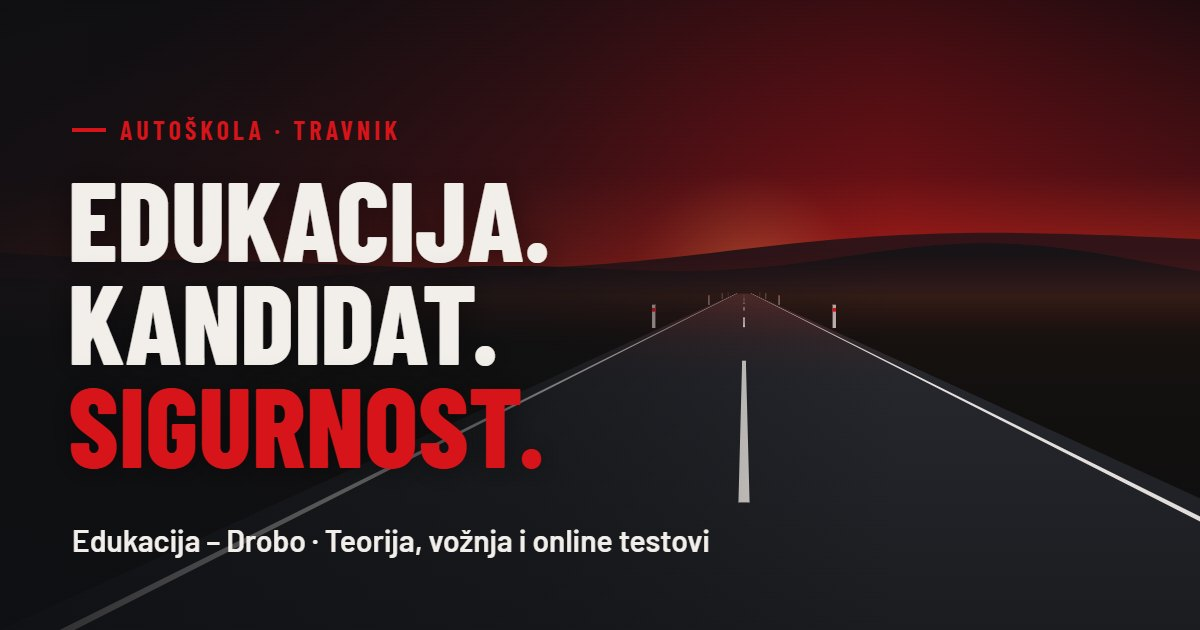
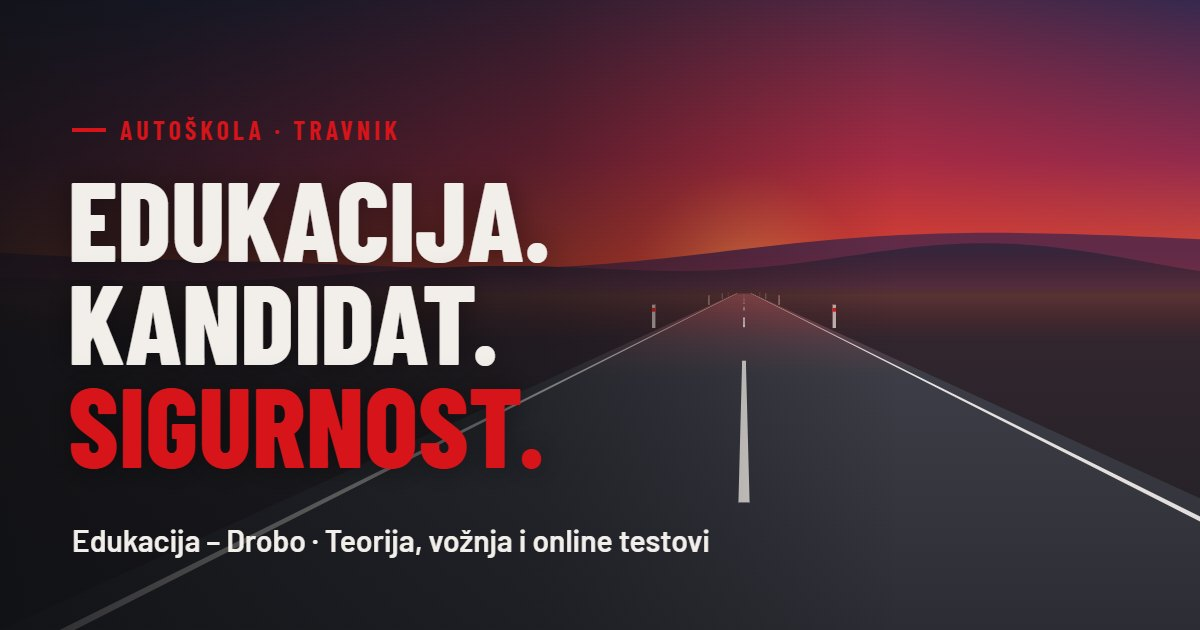
Hero svjetlije boje, mobilni hero pri vrhu, koraci upisa i dno podnožja
- animacija ceste: svjetlije, zasićene boje (plavo-ljubičasto nebo,
  crveno-narandžasti horizont, svjetliji asfalt); nove statične slike
- telefon: hero tekst pri vrhu preko neba, niži horizont na uspravnom
  ekranu da je cesta vidljiva ispod teksta
- koraci upisa poravnati lijevo (uklonjeno zadano uvlačenje liste)
- dno podnožja: uspravna crta prije "Sva prava zadržana.",
  "Stranicu izradio A&V Web Studio" s manjim logom; centrirano na telefonu

diff --git a/src/lib/hero.js b/src/lib/hero.js
@@ -149,30 +149,32 @@ export function createRoad(canvas) {
     ctx.setTransform(dpr, 0, 0, dpr, 0, 0);
     const wide = W > 900;
     const vpx = W * (wide ? 0.62 : 0.5);
-    const horizon = H * (wide ? 0.46 : 0.42);
+    // Uspravan ekran telefona: niži horizont, da tekst pri vrhu stoji preko neba, a cesta ostane ispod njega
+    const portrait = !wide && H > W * 1.3;
+    const horizon = H * (wide ? 0.46 : portrait ? 0.56 : 0.42);
     const dawn = smooth(clamp(p * 1.15));
 
-    // Nebo: od noći prema crvenom svitanju
+    // Nebo: tamnoplavi sumrak prema jarkom crveno-narandžastom svitanju
     const sky = ctx.createLinearGradient(0, 0, 0, horizon);
-    sky.addColorStop(0, `rgb(${lerp(10, 26, dawn)}, ${lerp(11, 12, dawn)}, ${lerp(14, 16, dawn)})`);
-    sky.addColorStop(0.6, `rgb(${lerp(24, 92, dawn)}, ${lerp(12, 16, dawn)}, ${lerp(16, 20, dawn)})`);
-    sky.addColorStop(1, `rgb(${lerp(110, 228, dawn)}, ${lerp(14, 70, dawn)}, ${lerp(20, 36, dawn)})`);
+    sky.addColorStop(0, `rgb(${lerp(34, 44, dawn)}, ${lerp(40, 46, dawn)}, ${lerp(78, 88, dawn)})`);
+    sky.addColorStop(0.55, `rgb(${lerp(108, 170, dawn)}, ${lerp(40, 52, dawn)}, ${lerp(84, 84, dawn)})`);
+    sky.addColorStop(1, `rgb(${lerp(218, 250, dawn)}, ${lerp(66, 120, dawn)}, ${lerp(48, 60, dawn)})`);
     ctx.fillStyle = sky;
     ctx.fillRect(0, 0, W, horizon + 1);
 
     // Sunce koje izlazi u tački nestajanja
     const sunY = horizon + lerp(H * 0.05, -H * 0.06, dawn);
     const glow = ctx.createRadialGradient(vpx, sunY, 0, vpx, sunY, Math.max(W, H) * 0.55);
-    glow.addColorStop(0, `rgba(255, ${lerp(90, 170, dawn)}, ${lerp(60, 90, dawn)}, ${lerp(0.35, 0.9, dawn)})`);
-    glow.addColorStop(0.18, `rgba(215, 20, 26, ${lerp(0.25, 0.45, dawn)})`);
+    glow.addColorStop(0, `rgba(255, ${lerp(130, 186, dawn)}, ${lerp(70, 96, dawn)}, ${lerp(0.55, 0.95, dawn)})`);
+    glow.addColorStop(0.18, `rgba(225, 40, 36, ${lerp(0.32, 0.48, dawn)})`);
     glow.addColorStop(1, 'rgba(215, 20, 26, 0)');
     ctx.fillStyle = glow;
     ctx.fillRect(0, 0, W, horizon + 1);
 
     // Planine (dva sloja)
     const layers = [
-      { pts: ridges[0], base: horizon, height: H * 0.11, color: `rgb(${lerp(34, 70, dawn)}, ${lerp(18, 22, dawn)}, ${lerp(22, 26, dawn)})`, shift: p * 0.02 },
-      { pts: ridges[1], base: horizon + 2, height: H * 0.07, color: `rgb(${lerp(18, 30, dawn)}, ${lerp(18, 20, dawn)}, ${lerp(21, 24, dawn)})`, shift: p * 0.05 },
+      { pts: ridges[0], base: horizon, height: H * 0.11, color: `rgb(${lerp(80, 118, dawn)}, ${lerp(40, 46, dawn)}, ${lerp(74, 70, dawn)})`, shift: p * 0.02 },
+      { pts: ridges[1], base: horizon + 2, height: H * 0.07, color: `rgb(${lerp(50, 62, dawn)}, ${lerp(36, 38, dawn)}, ${lerp(60, 58, dawn)})`, shift: p * 0.05 },
     ];
     layers.forEach((L) => {
       ctx.beginPath();
@@ -189,8 +191,8 @@ export function createRoad(canvas) {
 
     // Tlo
     const ground = ctx.createLinearGradient(0, horizon, 0, H);
-    ground.addColorStop(0, '#16120f');
-    ground.addColorStop(1, '#0c0d0f');
+    ground.addColorStop(0, '#35272f');
+    ground.addColorStop(1, '#1e1f25');
     ctx.fillStyle = ground;
     ctx.fillRect(0, horizon, W, H - horizon);
 
@@ -203,9 +205,9 @@ export function createRoad(canvas) {
 
     // Asfalt
     const asphalt = ctx.createLinearGradient(0, horizon, 0, H);
-    asphalt.addColorStop(0, `rgb(${lerp(50, 92, dawn)}, ${lerp(36, 46, dawn)}, ${lerp(38, 44, dawn)})`);
-    asphalt.addColorStop(0.25, '#26272c');
-    asphalt.addColorStop(1, '#1b1c20');
+    asphalt.addColorStop(0, `rgb(${lerp(112, 150, dawn)}, ${lerp(66, 76, dawn)}, ${lerp(80, 80, dawn)})`);
+    asphalt.addColorStop(0.25, '#3c3d46');
+    asphalt.addColorStop(1, '#2c2d34');
     ctx.beginPath();
     ctx.moveTo(xAt(far, -1), yAt(far));
     ctx.lineTo(xAt(far, 1), yAt(far));
@@ -271,7 +273,7 @@ export function createRoad(canvas) {
     // Blaga izmaglica na horizontu
     const haze = ctx.createLinearGradient(0, horizon - H * 0.06, 0, horizon + H * 0.08);
     haze.addColorStop(0, 'rgba(215, 20, 26, 0)');
-    haze.addColorStop(0.5, `rgba(230, 90, 70, ${lerp(0.08, 0.22, dawn)})`);
+    haze.addColorStop(0.5, `rgba(240, 100, 70, ${lerp(0.14, 0.26, dawn)})`);
     haze.addColorStop(1, 'rgba(215, 20, 26, 0)');
     ctx.fillStyle = haze;
     ctx.fillRect(0, horizon - H * 0.06, W, H * 0.14);

diff --git a/src/styles/main.css b/src/styles/main.css
@@ -620,20 +620,22 @@ ul { margin: 0; padding: 0; list-style: none; }
   border-top: 1px solid var(--line-dark);
   font-size: 0.9rem;
 }
-.footer-legal { display: flex; flex-wrap: wrap; gap: 6px 20px; align-items: center; }
+.footer-legal { display: flex; flex-wrap: wrap; gap: 6px 12px; align-items: center; }
+.footer-sep { width: 1px; height: 14px; background: currentColor; opacity: 0.45; }
+.footer-admin { margin-left: 8px; }
 .footer-admin { opacity: 0.6; text-decoration: none; }
 .footer-admin:hover { opacity: 1; }
 .footer-credit {
   display: inline-flex;
   align-items: center;
-  gap: 10px;
+  gap: 8px;
   min-height: 44px;
   text-decoration: none;
   color: var(--muted-on-dark);
   transition: color 0.2s ease;
 }
 .footer-credit img {
-  width: 34px;
+  width: 26px;
   height: auto;
   filter: invert(1);
   opacity: 0.85;
@@ -685,7 +687,11 @@ ul { margin: 0; padding: 0; list-style: none; }
   .footer-grid { gap: 28px; }
   .footer-logo { width: 104px; }
   .footer-slogan { font-size: 1.1rem; }
-  .footer-bottom { margin-top: 36px; flex-direction: column; align-items: flex-start; }
+  /* Pravni tekst i potpis na telefonu u sredini; bez uspravne crte kad su u dva reda */
+  .footer-bottom { margin-top: 36px; flex-direction: column; align-items: center; text-align: center; gap: 4px; }
+  .footer-legal { flex-direction: column; justify-content: center; gap: 2px; }
+  .footer-sep { display: none; }
+  .footer-admin { margin: 6px 0 0; }
 }
 
 /* ---------- Pojavljivanje pri skrolanju ----------

diff --git a/src/styles/home.css b/src/styles/home.css
@@ -165,10 +165,11 @@
 }
 
 @media (max-width: 720px) {
+  /* Tekst je pri vrhu preko neba, pa je zatamnjenje gore, a cesta ispod ostaje vidljiva */
   .hero-shade {
-    background: linear-gradient(0deg, rgba(15, 16, 19, 0.92) 10%, rgba(15, 16, 19, 0.35) 60%, rgba(15, 16, 19, 0.55) 100%);
+    background: linear-gradient(180deg, rgba(15, 16, 19, 0.82) 0%, rgba(15, 16, 19, 0.6) 45%, rgba(15, 16, 19, 0.15) 75%, rgba(15, 16, 19, 0.35) 100%);
   }
-  .hero-content { align-items: end; padding-bottom: 96px; }
+  .hero-content { align-items: start; padding-top: clamp(16px, 4svh, 36px); }
   .hero-progress, .hero-scroll { display: none; }
   .hero-actions .btn { flex: 1 1 100%; }
 }
@@ -433,7 +434,7 @@
   gap: clamp(32px, 6vw, 80px);
   align-items: start;
 }
-.steps { display: grid; gap: 20px; margin-top: 36px; }
+.steps { display: grid; gap: 20px; margin: 36px 0 0; padding: 0; list-style: none; }
 .steps li { display: flex; gap: 16px; align-items: flex-start; }
 .step-n {
   flex: none;
@@ -613,7 +614,6 @@
   .hero-title { font-size: clamp(2.5rem, 12.5vw, 3.3rem); margin-top: 12px; }
   .hero-text { margin-top: 14px; font-size: 1rem; }
   .hero-actions { margin-top: 22px; gap: 10px; }
-  .hero-content { padding-bottom: 72px; }
   .hero-announce { margin-bottom: 14px; font-size: 0.9rem; padding: 6px 12px 6px 6px; }
   .hero-announce .dot { width: 24px; height: 24px; }
 

diff --git a/src/lib/ui.js b/src/lib/ui.js
@@ -232,13 +232,14 @@ export function footerHTML(settings) {
     </div>
     <div class="container footer-bottom">
       <div class="footer-legal">
-        <span>© ${new Date().getFullYear()} Edukacija – Drobo d.o.o. Travnik. Sva prava zadržana.</span>
+        <span>© ${new Date().getFullYear()} Edukacija – Drobo d.o.o. Travnik</span>
+        <span class="footer-sep" aria-hidden="true"></span>
+        <span>Sva prava zadržana.</span>
         <a href="/admin" class="footer-admin">Administracija</a>
       </div>
       <a class="footer-credit" href="https://avstudio.site" target="_blank" rel="noopener">
-        <span>Izrada stranice</span>
-        <img src="/img/avstudio-logo.webp" alt="A&amp;V Web Studio logo" width="34" height="28" loading="lazy" />
-        <strong>A&amp;V Web Studio</strong>
+        <span>Stranicu izradio <strong>A&amp;V Web Studio</strong></span>
+        <img src="/img/avstudio-logo.webp" alt="A&amp;V Web Studio logo" width="26" height="22" loading="lazy" />
       </a>
     </div>`;
 }
